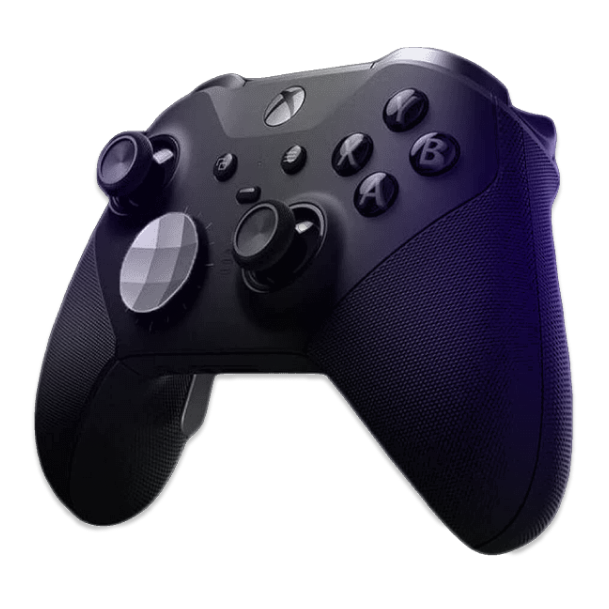
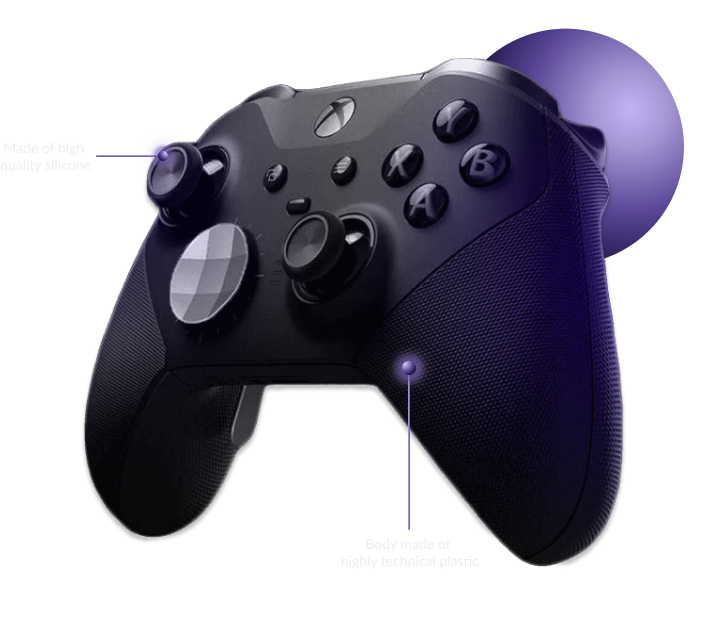
feat: create home section and menu effects

Changed region(s): [[0.0312, 0.0312, 0.9672, 0.936]]

diff --git a/style.css b/style.css
@@ -1,5 +1,8 @@
+/* stylelint-disable property-no-vendor-prefix */
 :root {
   --purple: #8a70da;
+  --purple-radius: radial-gradient(circle at left, #f9f6ff 0%, #c9bcf1 50%, #8a70da 100%);
+  --purple-radius-2: radial-gradient(circle at left, #a394d2 0%, #5a4696 50%, #211449 100%);
   --bg-color: #03001c;
   --bg-color-opacity-6: #03001c99;
   --df-text: #eee;
@@ -18,11 +21,16 @@ html {
   scroll-behavior: smooth;
 }
 
+:target {
+  scroll-margin-top: 180px;
+}
+
 body {
   background-color: var(--bg-color);
   color: var(--df-text);
   font-family: var(--ft-inter);
-  width: 100vw;
+  height: max-content;
+  overflow-x: hidden;
 }
 
 a {
@@ -30,9 +38,23 @@ a {
   text-decoration: none;
 }
 
+.text-gradient {
+  -webkit-background-clip: text;
+  background-clip: text;
+  background-image: var(--purple-radius);
+  -webkit-text-fill-color: transparent;
+}
+
+.elipse-blur {
+  background-image: var(--purple-radius-2);
+  border-radius: 50%;
+  filter: blur(160px);
+  position: absolute;
+}
+
 .header-blur {
-  background-color: var(--bg-color-opacity-6);
   backdrop-filter: blur(27px);
+  background-color: var(--bg-color-opacity-6);
   border-radius: 0 0 6px 6px;
   height: 90px;
   position: fixed;
@@ -79,8 +101,103 @@ a {
   list-style: none;
 }
 
-.header-menu ul a:hover {
-  color: var(--purple);
+.header-menu ul a {
+  position: relative;
 }
 
+.header-menu ul a:hover::before {
+  animation: marker-menu 0.3s;
+  background-image: var(--purple-radius);
+  border-radius: 6px;
+  bottom: -8px;
+  content: '';
+  height: 4px;
+  left: -4px;
+  position: absolute;
+  width: calc(100% + 8px);
+  z-index: -1;
+}
 
+@keyframes marker-menu {
+  from {
+    transform: scaleX(0);
+  }
+
+  to {
+    transform: scaleX(1);
+  }
+}
+
+.header-menu .menu-active {
+  color: var(--purple);
+  position: relative
+}
+
+main {
+  margin-inline: auto;
+  max-width: 1200px;
+  padding-top: 180px;
+  width: 100%;
+}
+
+.section-1 {
+  align-items: center;
+  display: flex;
+  height: 612px;
+  justify-content: center;
+  width: 100%;
+}
+
+.section-1 .aside-left {
+  height: 80%;
+  position: relative;
+  width: 40%;
+}
+
+.section-1 .aside-left div {
+  position: relative;
+  z-index: 20;
+}
+
+.section-1 .aside-right {
+  display: flex;
+  justify-content: flex-end;
+  position: relative;
+  width: 60%;
+}
+
+.section-1 h1 {
+  font-family: var(--ft-raleway);
+  font-size: 4.6875rem;
+  font-weight: 900;
+}
+
+.section-1 p {
+  font-family: var(--ft-lato);
+  font-size: 1.25rem;
+  font-weight: 600;
+  margin-top: 20px;
+  width: 90%;
+}
+
+.section-1 .aside-right img {
+  margin-right: -50px;
+  z-index: 30;
+}
+
+.main-right-elipse {
+  height: 634px;
+  right: 0;
+  top: 0;
+  transform: rotate(106.5deg);
+  width: 396px;
+}
+
+.main-left-elipse {
+  border: white 1px solid;
+  height: 367px;
+  left: 0;
+  transform: rotate(54deg);
+  width: 215px;
+  z-index: 30;
+}

diff --git a/index.html b/index.html
@@ -1,5 +1,5 @@
 <!DOCTYPE html>
-<html lang="pt-br">
+<html lang="en">
 <head>
   <meta charset="UTF-8">
   <meta http-equiv="X-UA-Compatible" content="IE=edge">
@@ -24,12 +24,37 @@
       <nav class="header-menu">
         <ul>
           <li><a href="#main">Home</a></li>
-          <li><a href="#about">Sobre</a></li>
-          <li><a href="#guide">Guia</a></li>
-          <li><a href="#products">Produtos</a></li>
+          <li><a href="#about">About</a></li>
+          <li><a href="#guide">Guide</a></li>
+          <li><a href="#products">Products</a></li>
         </ul>
       </nav>
     </div>
   </header>
+  <main>
+    <section id="main" class="section-1">
+      <aside class="aside-left">
+        <div>
+          <h1 class="text-gradient">
+            We create
+            our future
+          </h1>
+          <p>
+            We will change the feeling of playing with
+            our products
+          </p>
+        </div>
+        <div class="main-left-elipse elipse-blur"></div>
+      </aside>
+      <aside class="aside-right">
+        <div class="main-right-elipse elipse-blur"></div>
+        <img src="./assets/main-controller.png" alt="Image of a black video game controller">
+      </aside>
+    </section>
+    <section id="about"></section>
+    <section id="guide"></section>
+    <section id="products"></section>
+  </main>
 </body>
+<script src="./script.js"></script>
 </html>

diff --git a/script.js b/script.js
@@ -1,0 +1,37 @@
+const menus = document.querySelectorAll('.header-menu a');
+
+const activeOnScroll = () => {
+  const [home, about, guide, products] = Array.from(menus);
+
+  const homeTop = document.querySelector('#main').scrollHeight;
+  const aboutTop = document.querySelector('#about').scrollHeight + homeTop;
+  const guideTop = document.querySelector('#guide').scrollHeight + aboutTop;
+
+  const scrollY = window.scrollY;
+
+  if (scrollY < homeTop) {
+    home.classList.add('menu-active');
+    about.classList.remove('menu-active');
+    guide.classList.remove('menu-active');
+    products.classList.remove('menu-active');
+  } else if (scrollY < aboutTop) {
+    about.classList.add('menu-active');
+    home.classList.remove('menu-active');
+    guide.classList.remove('menu-active');
+    products.classList.remove('menu-active');
+  } else if (scrollY < guideTop) {
+    guide.classList.add('menu-active');
+    home.classList.remove('menu-active');
+    about.classList.remove('menu-active');
+    products.classList.remove('menu-active');
+  } else {
+    products.classList.add('menu-active');
+    home.classList.remove('menu-active');
+    about.classList.remove('menu-active');
+    guide.classList.remove('menu-active');
+  }
+
+}
+
+activeOnScroll();
+window.addEventListener('scroll',activeOnScroll);
